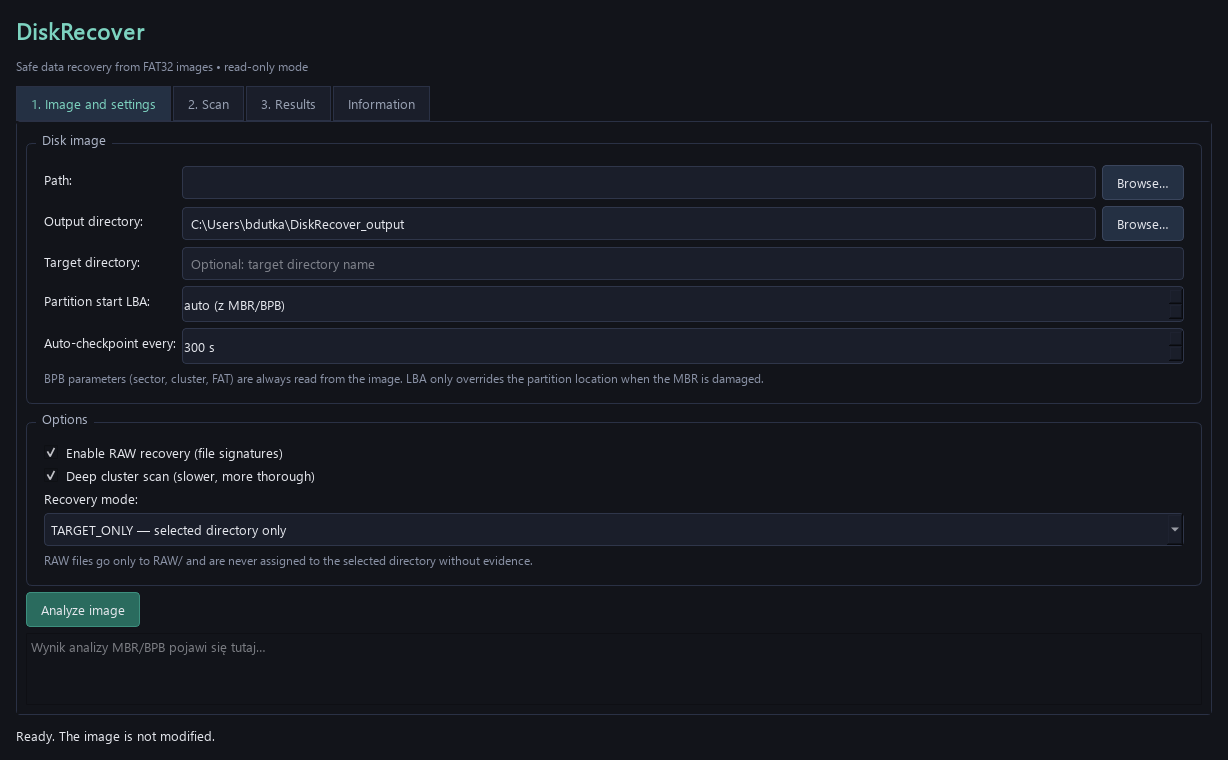
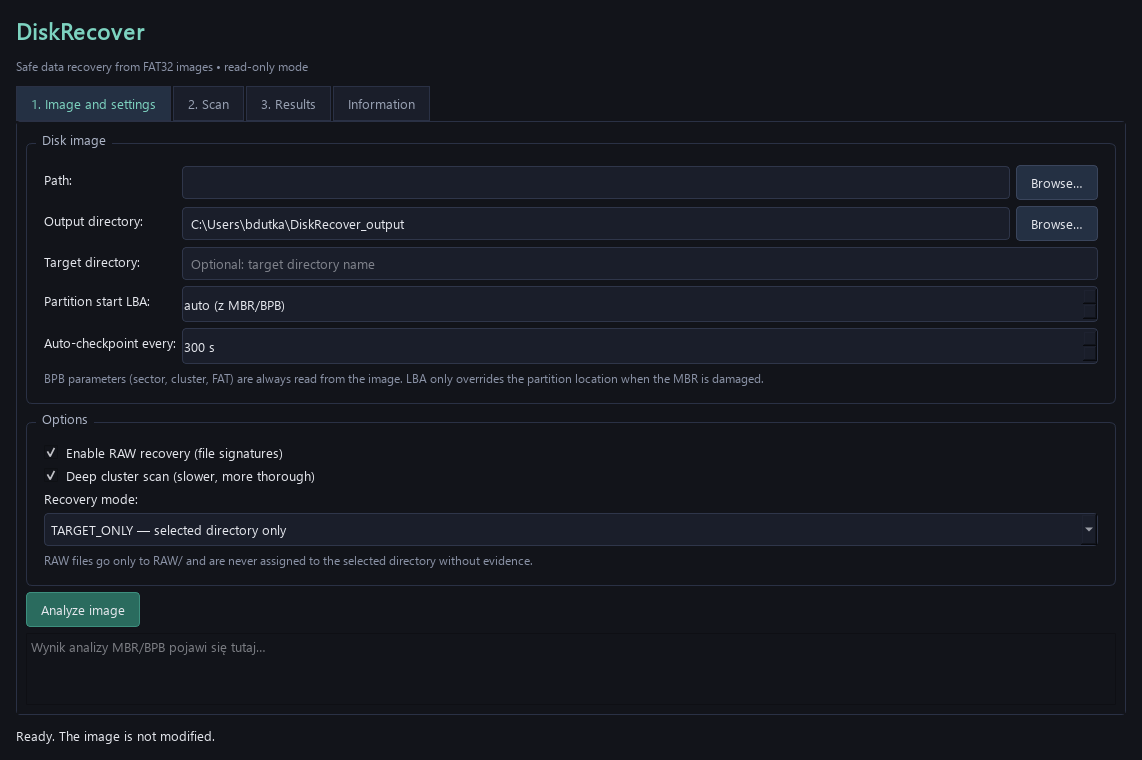
docs: update README screenshots to match English UI

diff --git a/diskrecover/i18n/en.py b/diskrecover/i18n/en.py
@@ -72,4 +72,20 @@ UI_TRANSLATIONS = {
     "Podaj ścieżkę do obrazu.": "Enter an image path.",
     "Podaj obraz i katalog wyjściowy.": "Enter an image and output directory.",
     "Brak zgodnych checkpointów.": "No compatible checkpoints found.",
+    "Postęp całkowity: %p%": "Overall progress: %p%",
+    "Postęp bieżącego etapu": "Current stage progress",
+    "● GOTOWY": "● READY",
+    "Brak aktywnego skanowania.": "No active scan.",
+    "Ostatni checkpoint: —": "Last checkpoint: —",
+    "Oczekiwanie…": "Waiting…",
+    "Start odzyskiwania": "Start recovery",
+    "Zapisz postęp": "Save progress",
+    "Wstrzymaj": "Pause",
+    "Wznów": "Resume",
+    "Anuluj i zapisz": "Cancel and save",
+    "Anuluj": "Cancel",
+    "Otwórz folder checkpointów": "Open checkpoints folder",
+    "Otwórz log diagnostyczny": "Open diagnostic log",
+    "Skanowanie jest nieniszczące: obraz otwierany jest wyłącznie w trybie odczytu (rb/mmap). Checkpointy SQLite pozwalają wstrzymać i wznowić bez powtarzania ukończonych etapów.": "Scanning is non-destructive: the image is opened read-only (rb/mmap). SQLite checkpoints allow pausing and resuming without repeating completed stages.",
+    "Ostatni checkpoint:": "Last checkpoint:",
 }

diff --git a/diskrecover/gui/main_window.py b/diskrecover/gui/main_window.py
@@ -156,6 +156,12 @@ class MainWindow(QMainWindow):
         self.table.setHorizontalHeaderLabels(
             [translated(text) for text in ["Ścieżka", "Wyjście", "Rozmiar", "Pewność", "Kategoria"]]
         )
+        self.progress.setFormat(
+            "Overall progress: %p%" if self._language == "en" else "Postęp całkowity: %p%"
+        )
+        self.stage_progress.setFormat(
+            "Current stage progress" if self._language == "en" else "Postęp bieżącego etapu"
+        )
         self.language_label.setText("Language:" if self._language == "en" else "Język:")
         self.language_combo.blockSignals(True)
         self.language_combo.setCurrentIndex(0 if self._language == "en" else 1)
